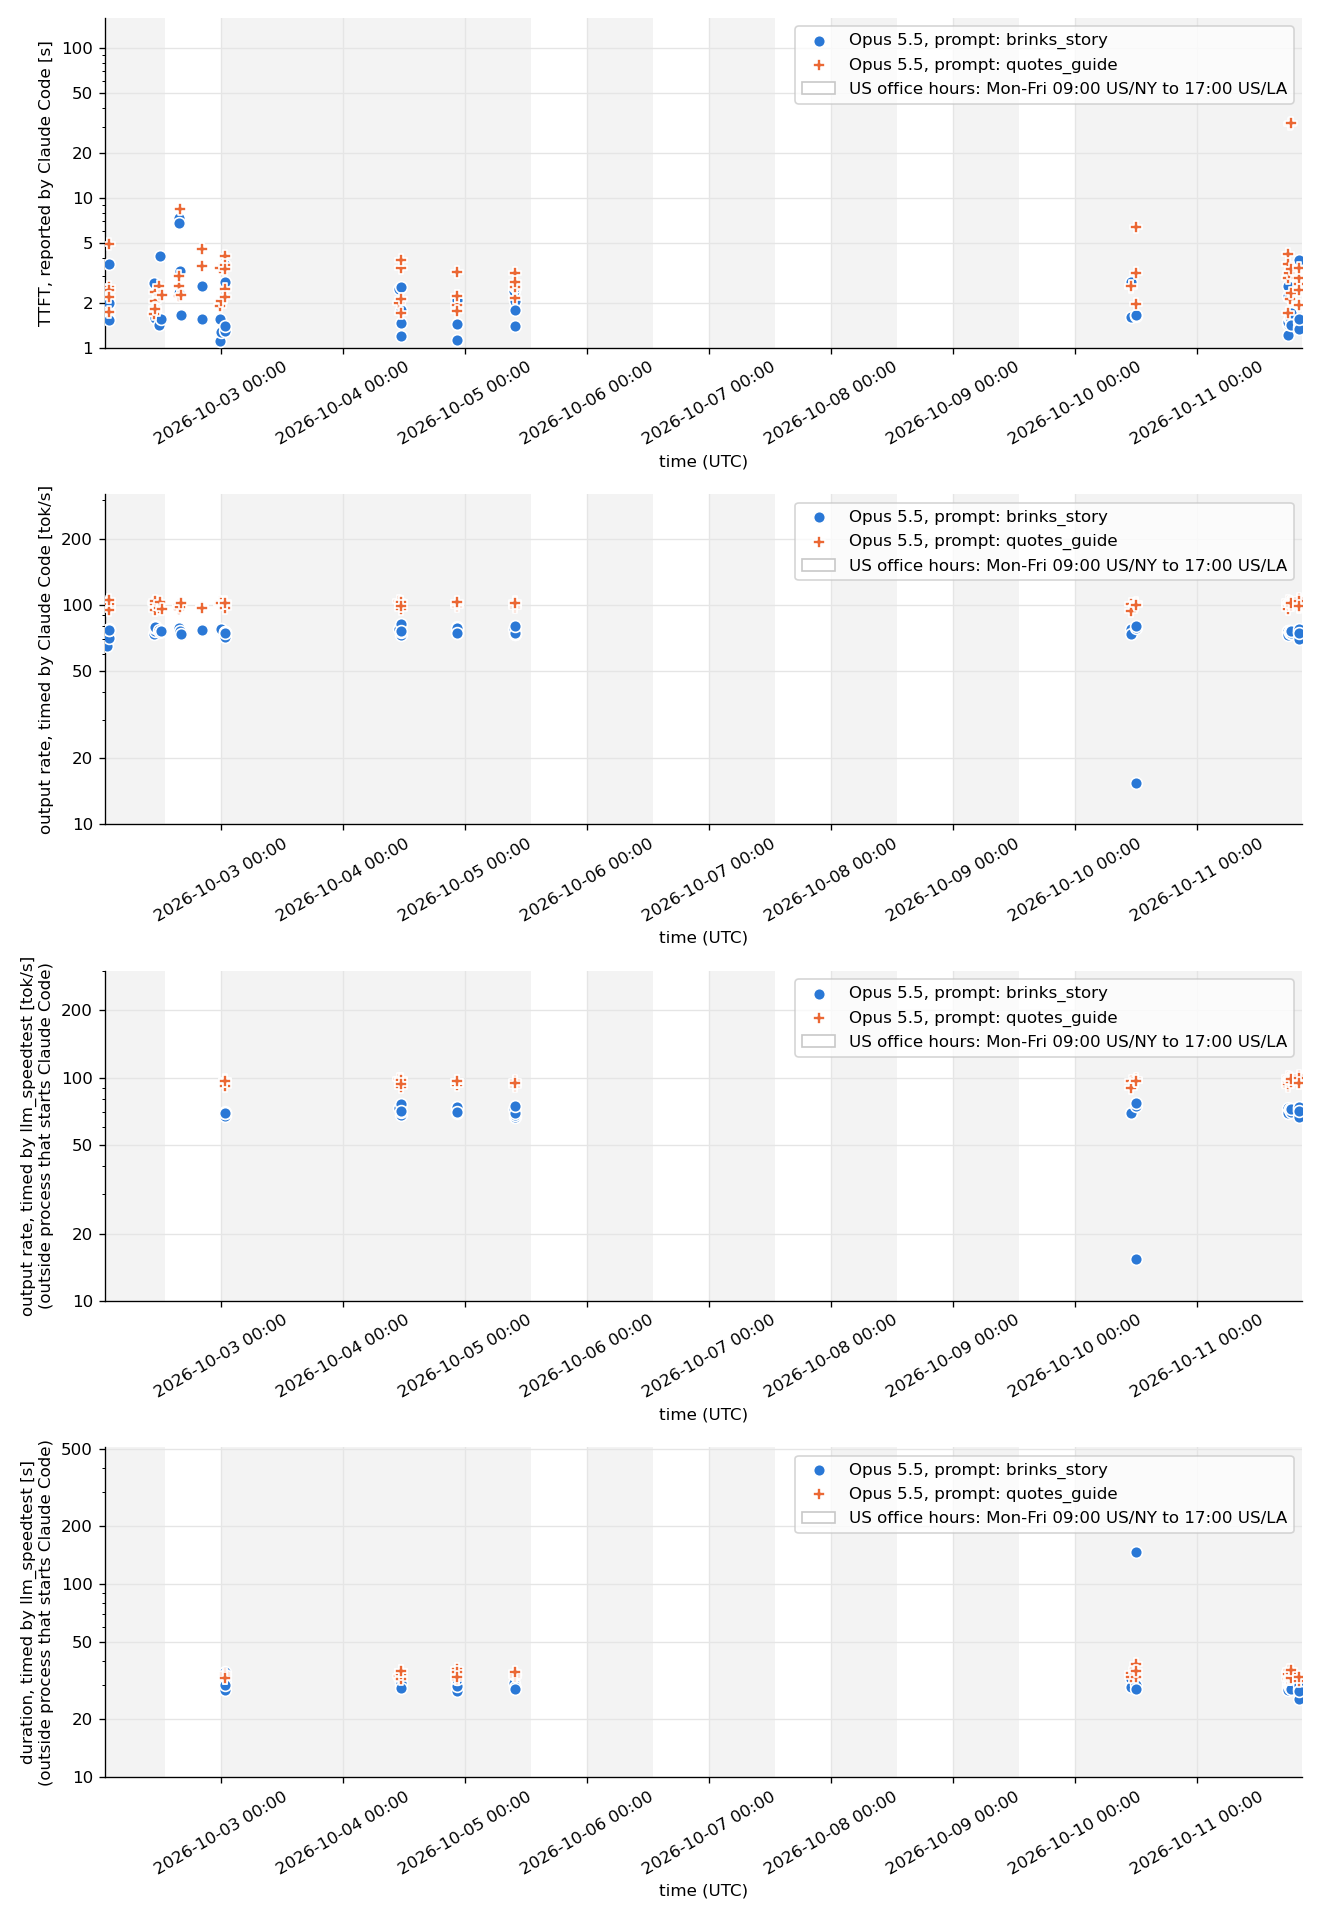
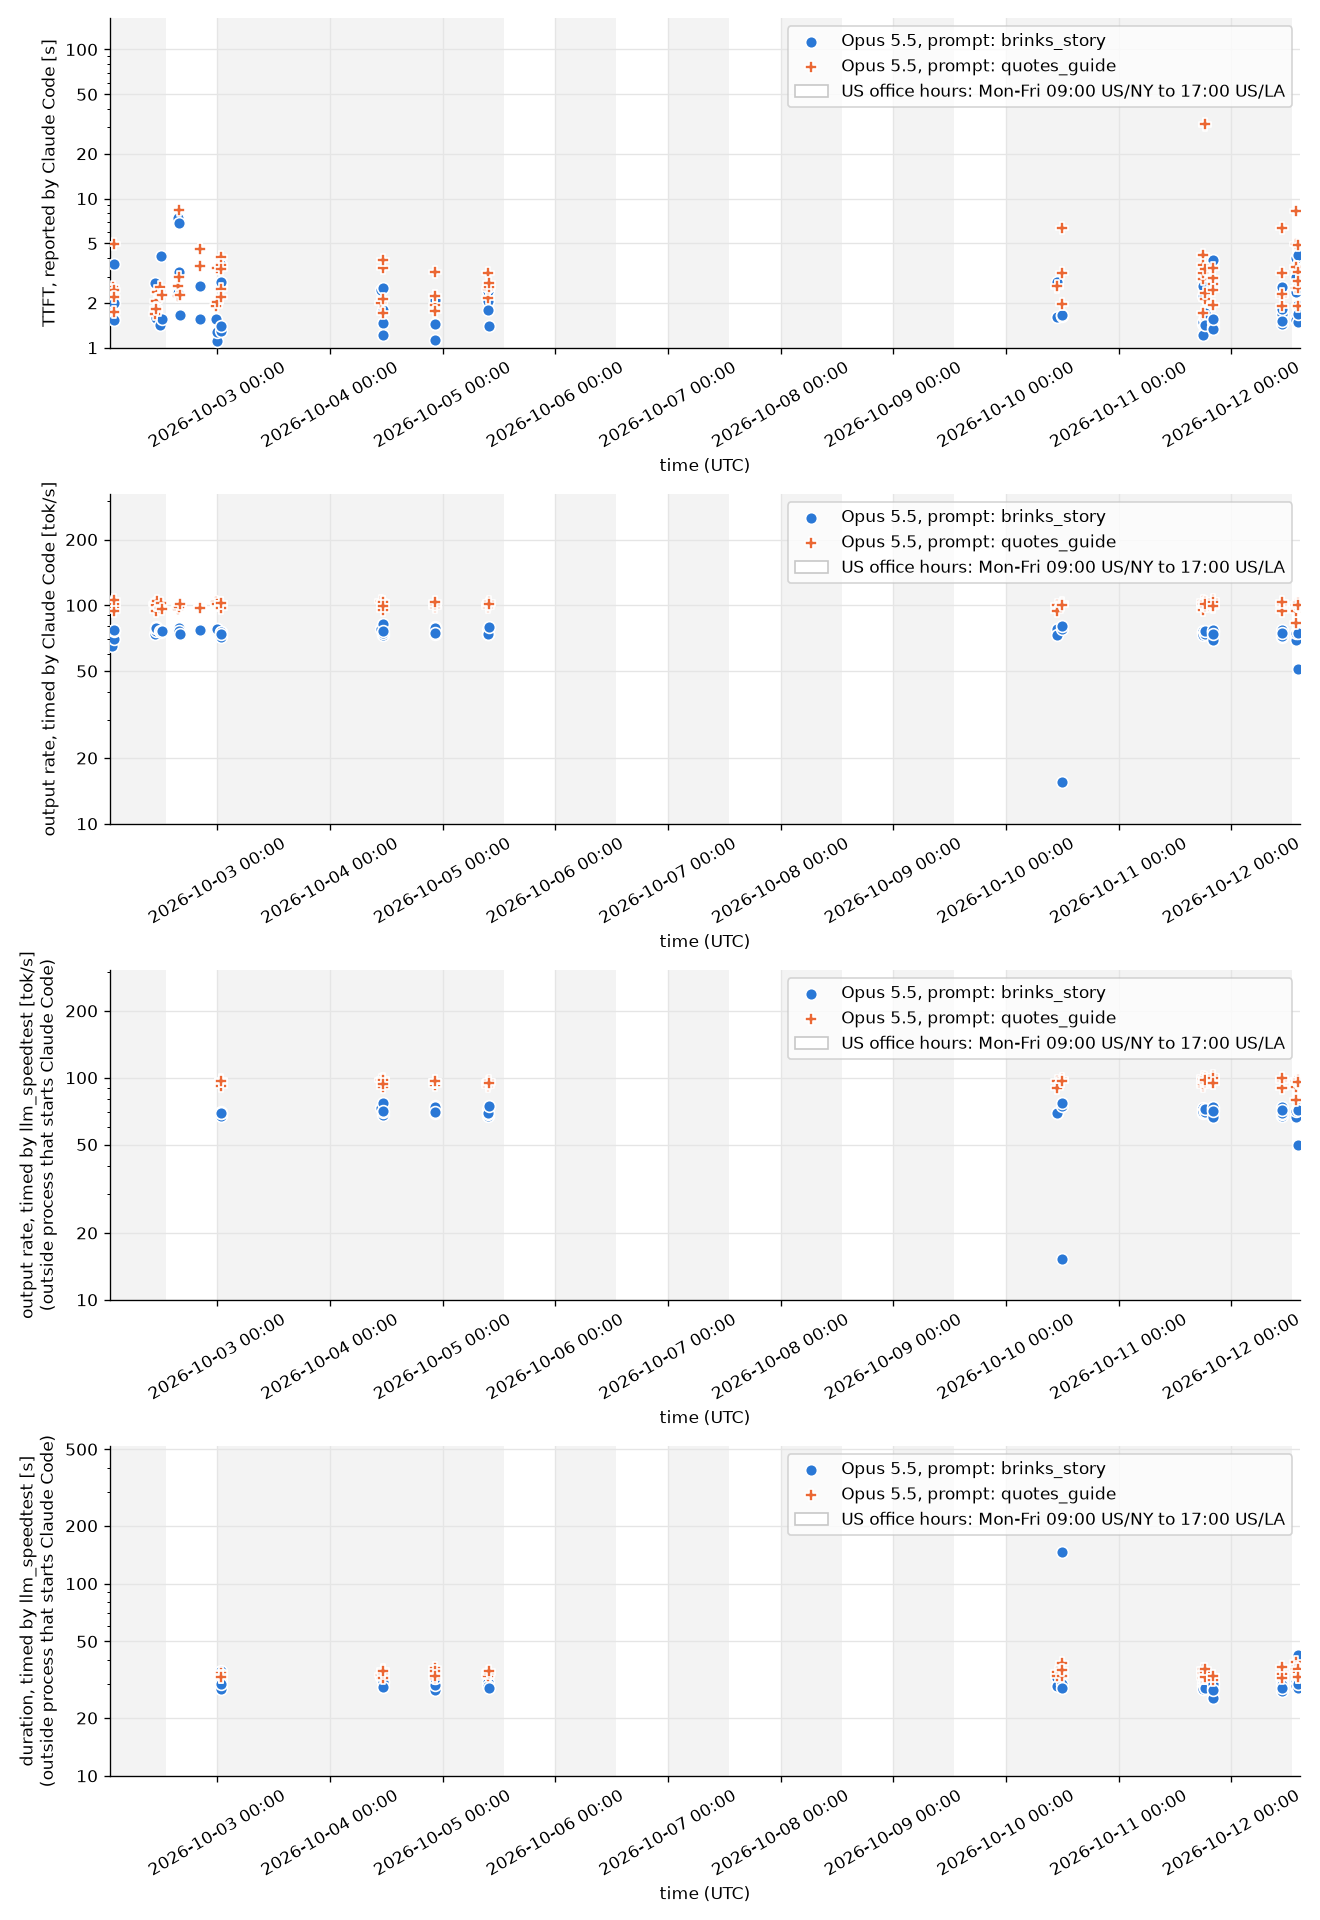
use Pillow's default WebP method instead of method 6, update the example plot
Method 6 produced a bit identical file but took about 15 times as long as the default method 4.

diff --git a/plot_results.py b/plot_results.py
@@ -222,7 +222,7 @@ def main():
         for ax, (key, _) in zip(axes, METRICS):
             fit_ylim_below_legend(ax, metric_range(rows, key)[1])
             set_log_y_ticks(ax)
-    fig.savefig(PLOT_FILE, dpi=120, pil_kwargs={"lossless": True, "quality": 100, "method": 6})
+    fig.savefig(PLOT_FILE, dpi=120, pil_kwargs={"lossless": True, "quality": 100})
 
 
 if __name__ == "__main__":
